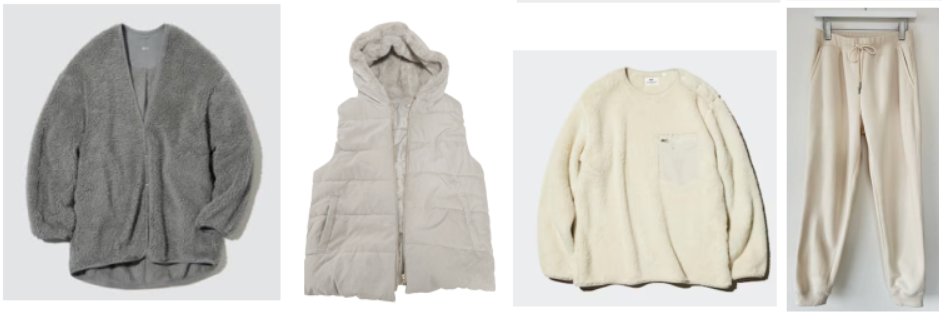
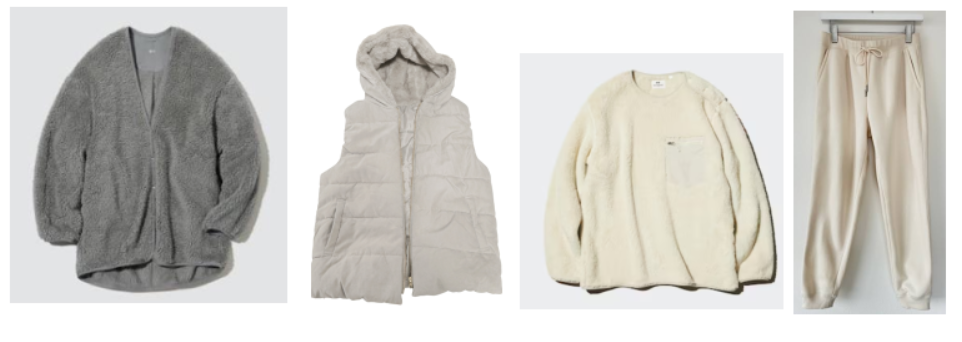
Replace mountain outfit image with updated user screenshot

diff --git a/sw.js b/sw.js
@@ -1,5 +1,5 @@
 'use strict';
-const CACHE = 'autumn-shiori-shell-v142';
+const CACHE = 'autumn-shiori-shell-v143';
 const ASSETS = ['./','./index.html','./style.css','./app.js','./trip.json','./manifest.webmanifest','./icon.svg','./icon-192.png','./icon-512.png','./assets/fushimi-inari-map.png','./assets/kurama-map.png','./assets/demachiyanagi-lockers.png','./assets/outfit-rain.png','./assets/outfit-mountain.png'];
 const urls = ASSETS.map(path=>new URL(path,self.registration.scope).href);
 self.addEventListener('install', event => event.waitUntil(caches.open(CACHE).then(cache=>cache.addAll(urls)).then(()=>self.skipWaiting())));
